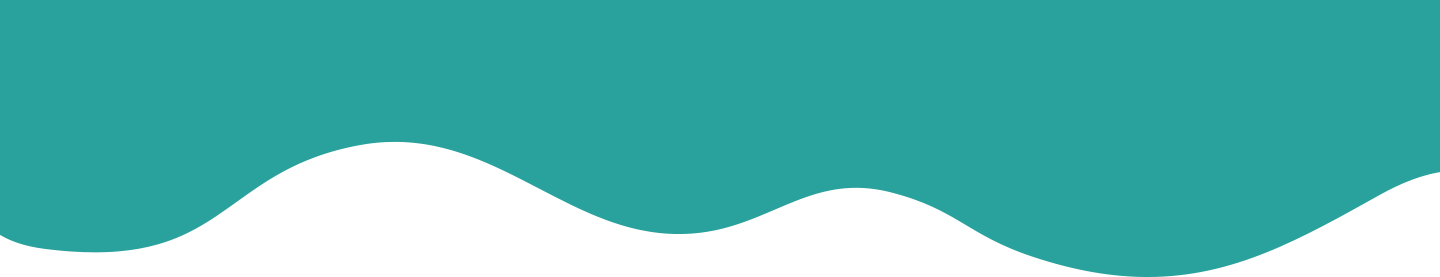
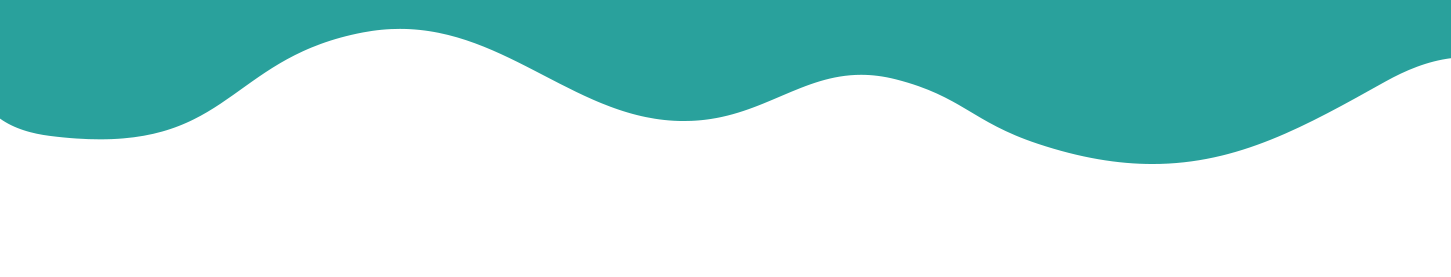
added styles

diff --git a/index.html b/index.html
@@ -39,7 +39,7 @@
     </header>
     <section class="black-coffes">
         <div class="black-block-left">
-            <h2 class="title-section">Black Coffees</h2>
+            <h2 class="title-section text-left">Black Coffees</h2>
             <button class="button-dark" type="button">Order Now</button>
         </div>
         <div class="black-block-right">
@@ -57,6 +57,7 @@
     <section class="hot-coffee">
         <div class="hot-bllock-left">
             <figure class="figure-hot-coffee">
+                <img src="./img/coffee3.png" alt="#" class="img-section">
                 <figcaption class="figcap-hot-coffee">
                     <p class="text-content">Lorem ipsum dolor sit amet, consectetur adipis
                         cing elit, sed do eiusmod tempor incididunt ut
@@ -64,11 +65,9 @@
                         minim veniam, quis nostrud exercitation</p>
                 </figcaption>
             </figure>
-            <img src="./img/coffee3.png" alt="#" class="img-section">
-            
         </div>
         <div class="hot-block-right">
-            <h2 class="title-section">Hot Coffees</h2>
+            <h2 class="title-section text-right">Hot Coffees</h2>
             <button class="button-light" type="button">Order Now</button>
         </div>
     </section>
@@ -78,37 +77,47 @@
             <button class="button-light" type="button">Order Now</button>
         </div>
         <div class="white-block-right">
-            <img src="./img/coffee4.png" alt="#" class="img-section">
-            <p class="text-content">Lorem ipsum dolor sit amet, consectetur adipis
-                cing elit, sed do eiusmod tempor incididunt ut
-                labore et dolore magna aliqua. Ut enim ad
-                minim veniam, quis nostrud exercitation</p>
+            <figure class="figure-white-coffee">
+                <img src="./img/coffee4.png" alt="#" class="img-section">
+                <figcaption class="figcap-white-coffee">
+                    <p class="text-content text-right">Lorem ipsum dolor sit amet, consectetur adipis
+                        cing elit, sed do eiusmod tempor incididunt ut
+                        labore et dolore magna aliqua. Ut enim ad
+                        minim veniam, quis nostrud exercitation</p>
+                </figcaption>
+            </figure>
         </div>
     </section>
-    <section class="voucher">
-        <h2 class="title-section">Voucher</h2>
-        <img src="" alt="#" class="img-voucher">
+    <section class="voucher text-center">
+        <figure class="text-center">
+            <figcaption>
+                <h2 class="title-voucher text-center">Voucher</h2>
+            </figcaption>
+            <img src="./img/voucher.png" alt="voucher" class="img-voucher">
+        </figure>
         <button class="button-light" type="button">Get Voucher Now</button>
     </section>
     <section class="customer-reviews">
         <h2 class="title-small">Customer Reviews</h2>
-        <div class="team">
-            <img class="team-img" src="#" alt="#">
-            <p class="team-name">John Peter</p>
-            <p class="text-team">Lorem ipsum dolor sit amet, consectetur
-                adipiscing elit, sed do eiusmod tempor incididunt ut
-                labore et dolore magna aliqua. Quis ipsum
-                suspendisse ultrices gravida. Risus commodo
-                viverra maecenas accumsan lacus vel facilisis.</p>
-        </div>
-        <div class="team">
-            <img class="team-img" src="#" alt="#">
-            <p class="team-name">Ella Thomson</p>
-            <p class="text-team">Lorem ipsum dolor sit amet, consectetur
-            adipiscing elit, sed do eiusmod tempor incididunt ut
-            labore et dolore magna aliqua. Quis ipsum
-            suspendisse ultrices gravida. Risus commodo
-            viverra maecenas accumsan lacus vel facilisis.</p>
+        <div class="customer-reviews-block">
+            <div class="team">
+                <img class="team-img" src="./img/man.png" alt="John Peter">
+                <p class="team-name">John Peter</p>
+                <p class="text-team">Lorem ipsum dolor sit amet, consectetur
+                    adipiscing elit, sed do eiusmod tempor incididunt ut
+                    labore et dolore magna aliqua. Quis ipsum
+                    suspendisse ultrices gravida. Risus commodo
+                    viverra maecenas accumsan lacus vel facilisis.</p>
+            </div>
+            <div class="team">
+                <img class="team-img" src="./img/woman.png" alt="Ella Thomson">
+                <p class="team-name">Ella Thomson</p>
+                <p class="text-team">Lorem ipsum dolor sit amet, consectetur
+                    adipiscing elit, sed do eiusmod tempor incididunt ut
+                    labore et dolore magna aliqua. Quis ipsum
+                    suspendisse ultrices gravida. Risus commodo
+                    viverra maecenas accumsan lacus vel facilisis.</p>
+            </div>
         </div>
     </section>
     <section class="open">

diff --git a/css/style.css b/css/style.css
@@ -58,9 +58,7 @@ figcaption,figure{
     margin: 0;
 }
 
-.figure-black-coffee{
-    width: 537px;
-}
+/* -------- Styles Sections -------- */
 
 .black-coffes,
 .hot-coffee,
@@ -69,8 +67,8 @@ figcaption,figure{
 .customer-reviews,
 .open {
     box-sizing: border-box;
-    padding-left: 130px;
-    padding-right: 130px;
+    padding-left: 160px;
+    padding-right: 160px;
 }
 
 header,
@@ -80,9 +78,20 @@ footer,
     padding-right: 50px;
 }
 
-.black-coffes, .hot-coffee, .white-coffee{
+.black-coffes, .hot-coffee, .white-coffee, .customer-reviews-block{
     display: flex;
     justify-content: space-between;
+    align-items: center;
+}
+
+.figure-black-coffee {
+    padding-top: 20px;
+    width: 537px;
+}
+
+.figure-hot-coffee,
+.figure-white-coffee {
+    width: 505px;
 }
 
 .img-section{
@@ -97,13 +106,11 @@ header,
 .voucher,
 .customer-reviews,
 .branches-section {
-    /* height: 840px; */
     background-color: #212731;
 }
 
 .black-coffes,
 .open {
-    /* height: 840px; */
     background-color: #29a19c;
 }
 footer {
@@ -113,13 +120,21 @@ footer {
 /* -------- Images -------- */
 
 header {
-    height: 850px;
+    height: 820px;
     background-image: url(../img/bpage1.png), url(../img/coffee1.png);
     background-repeat: no-repeat, no-repeat;
     background-position: bottom, bottom right;
-    background-size: 1440px, 870px;
+    background-size: 1900px, 820px;
+}
+.hot-coffee {
+    background-image: url(../img/bpage2.png);
+    background-repeat: no-repeat;
+    background-position: top;
 }
 
+.img-voucher{
+    width: 900px;
+}
 /* -------- Button -------- */
 
 .button-light {
@@ -164,7 +179,7 @@ header {
     font-size: 15px;
     line-height: 24px;
     font-weight: 400;
-    margin-bottom: 20px;
+    margin-bottom: 30px;
 }
 
 .headline {
@@ -176,7 +191,7 @@ header {
 .title-main {
     font-size: 153px;
     font-weight: 400;
-    margin-bottom: 20px;
+    margin-bottom: 30px;
 }
 
 .nav-list {
@@ -189,7 +204,14 @@ header {
     width: 300px;
     font-size: 125px;
     font-weight: 400;
-    margin-bottom: 63px;
+    margin-bottom: 90px;
+    line-height: 120px;
+}
+.title-voucher{
+    font-size: 125px;
+    font-weight: 400;
+    line-height: 120px;
+    margin-bottom: 20px;
 }
 .title-small {
     font-size: 88px;
@@ -245,8 +267,8 @@ nav {
 }
 
 .nav-header {
-    padding-top: 50px;
-    padding-bottom: 50px;
+    padding-top: 30px;
+    padding-bottom: 30px;
 }
 
 .nav {
@@ -254,22 +276,44 @@ nav {
 }
 
 .content {
+    padding-top: 50px;
+    padding-bottom: 50px;
     position: relative;
     z-index: 1;
 }
 
-
 /* -------- Black Coffes -------- */
+
+.black-coffes{
+ padding-top: 50px;
+ padding-bottom: 50px;
+}
 
 /* -------- Hot Coffee -------- */
 
+.hot-coffee{
+    padding-top: 130px;
+    padding-bottom: 50px;
+}
+
+.hot-block-right{
+    text-align: right;
+}
 /* -------- White Coffee -------- */
 
 /* -------- Voucher -------- */
 
+.voucher{
+    padding-top: 50px;
+    padding-bottom: 50px;
+}
 
 /* -------- Customer Reviews -------- */
 
+.customer-reviews{
+    padding-top: 50px;
+    padding-bottom: 50px;
+}
 
 /* -------- Team -------- */
 
